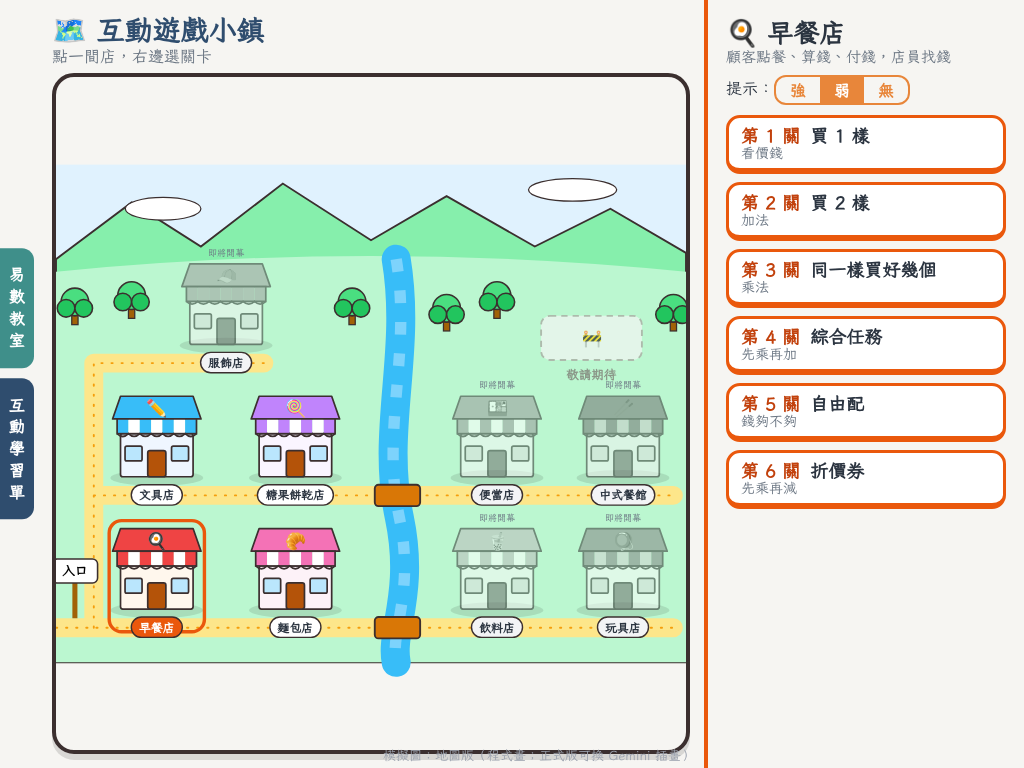
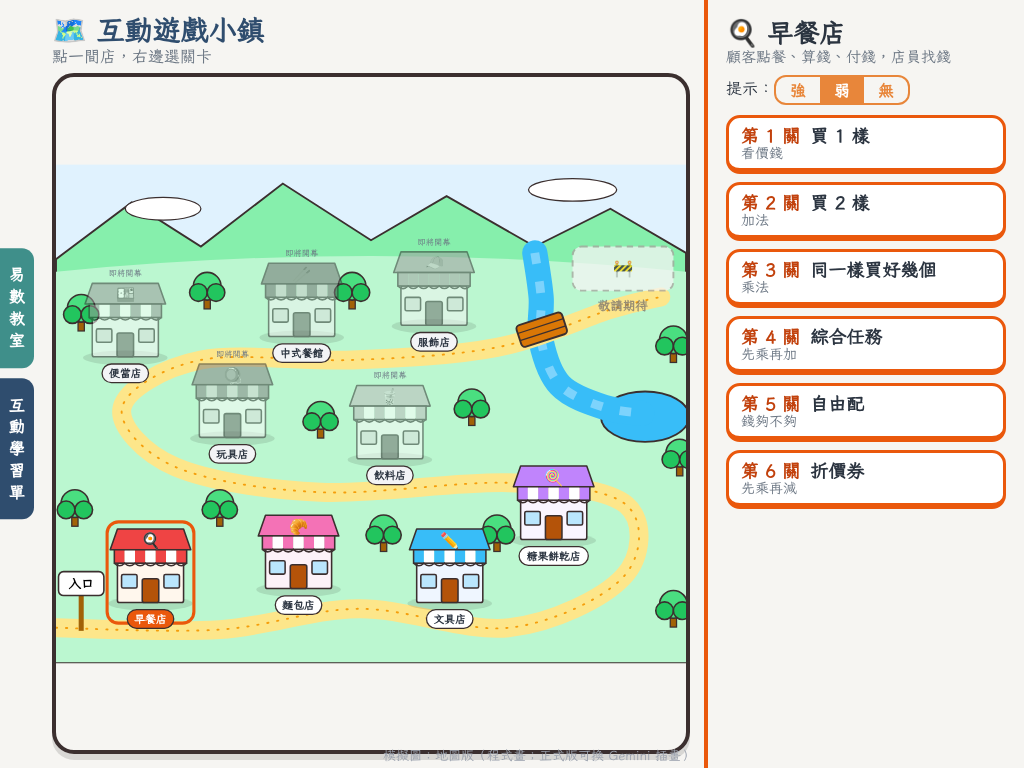
docs: 互動遊戲地圖模擬圖改成彎路、商店自然分佈
Claude-Session: https://claude.ai/code/session_011NSASY6YmqRvJvEdb39JCH

Changed region(s): [[0.0312, 0.3125, 0.6875, 0.9062]]

diff --git a/docs/mock-game-map/mock_map.html b/docs/mock-game-map/mock_map.html
@@ -26,21 +26,19 @@ aside .nm{font-size:26px;font-weight:800}aside .ds{font-size:15px;color:#6b7683;
 <ellipse cx="170" cy="70" rx="60" ry="18" fill="#fff" stroke="#3b2f2f" stroke-width="2"/><ellipse cx="820" cy="40" rx="70" ry="18" fill="#fff" stroke="#3b2f2f" stroke-width="2"/>
 <!-- 草地 -->
 <path d="M0,170 Q500,120 1000,170 L1000,790 L0,790Z" fill="#bbf7d0"/>
-<!-- 小河＋橋 -->
-<path d="M540,150 C565,300 515,420 545,560 C570,680 530,740 540,790" fill="none" stroke="#38bdf8" stroke-width="46" stroke-linecap="round"/>
-<path d="M540,150 C565,300 515,420 545,560 C570,680 530,740 540,790" fill="none" stroke="#7dd3fc" stroke-width="18" stroke-dasharray="20 30"/>
-<!-- 小路：每排店門口一條街，左邊一條直路把三排接起來，入口在左下 -->
-<g fill="none" stroke-linecap="round" stroke-linejoin="round">
-<path id="rd" d="M0,735 L980,735 M60,735 L60,315 L330,315 M60,525 L980,525" stroke="#fde68a" stroke-width="30"/>
-<path d="M0,735 L980,735 M60,735 L60,315 L330,315 M60,525 L980,525" stroke="#f59e0b" stroke-width="3" stroke-dasharray="2 14"/>
-</g>
-<rect x="506" y="718" width="72" height="34" rx="6" fill="#d97706" stroke="#3b2f2f" stroke-width="3"/>
-<rect x="506" y="508" width="72" height="34" rx="6" fill="#d97706" stroke="#3b2f2f" stroke-width="3"/>
+<!-- 小河（從山上流下來，流進右邊的小池塘）＋一座橋 -->
+<ellipse cx="935" cy="400" rx="70" ry="40" fill="#38bdf8" stroke="#3b2f2f" stroke-width="3"/>
+<path d="M760,140 C762,152 768,187 770,210 C772,233 765,257 770,280 C775,303 783,332 800,350 C817,368 848,378 870,385 C892,392 920,393 930,395" fill="none" stroke="#38bdf8" stroke-width="40" stroke-linecap="round"/>
+<path d="M760,140 C762,152 768,187 770,210 C772,233 765,257 770,280 C775,303 783,332 800,350 C817,368 848,378 870,385 C892,392 920,393 930,395" fill="none" stroke="#7dd3fc" stroke-width="14" stroke-dasharray="18 28"/>
+<!-- 彎彎的主街 -->
+<path d="M0,735 C43,736 180,743 260,738 C340,733 403,706 480,705 C557,704 650,743 720,735 C790,727 869,688 900,655 C931,622 935,565 905,540 C875,515 801,508 720,505 C639,502 508,524 420,520 C332,516 242,502 190,480 C138,458 98,413 105,385 C112,357 169,322 230,310 C291,298 392,313 470,310 C548,307 632,303 700,290 C768,277 837,243 880,230 C923,217 947,213 960,210" fill="none" stroke="#fde68a" stroke-width="30" stroke-linecap="round" stroke-linejoin="round"/>
+<path d="M0,735 C43,736 180,743 260,738 C340,733 403,706 480,705 C557,704 650,743 720,735 C790,727 869,688 900,655 C931,622 935,565 905,540 C875,515 801,508 720,505 C639,502 508,524 420,520 C332,516 242,502 190,480 C138,458 98,413 105,385 C112,357 169,322 230,310 C291,298 392,313 470,310 C548,307 632,303 700,290 C768,277 837,243 880,230 C923,217 947,213 960,210" fill="none" stroke="#f59e0b" stroke-width="3" stroke-dasharray="2 14" stroke-linecap="round"/>
+<g transform="translate(771,262) rotate(-18)"><rect x="-38" y="-18" width="76" height="36" rx="6" fill="#d97706" stroke="#3b2f2f" stroke-width="3"/><line x1="-38" y1="-6" x2="38" y2="-6" stroke="#3b2f2f" stroke-width="2"/><line x1="-38" y1="6" x2="38" y2="6" stroke="#3b2f2f" stroke-width="2"/></g>
 <!-- 入口牌 -->
-<g transform="translate(30,660)"><rect x="-4" y="0" width="8" height="60" fill="#a16207"/><rect x="-36" y="-34" width="72" height="38" rx="8" fill="#fff" stroke="#3b2f2f" stroke-width="2.5"/><text x="0" y="-8" text-anchor="middle" font-size="20" font-weight="800">入口</text></g>
-<g transform="translate(30,240) scale(1)"><rect x="-5" y="-6" width="10" height="20" fill="#a16207" stroke="#3b2f2f" stroke-width="2"/><circle cx="0" cy="-22" r="22" fill="#4ade80" stroke="#3b2f2f" stroke-width="2.5"/><circle cx="-14" cy="-12" r="14" fill="#22c55e" stroke="#3b2f2f" stroke-width="2.5"/><circle cx="14" cy="-12" r="14" fill="#22c55e" stroke="#3b2f2f" stroke-width="2.5"/></g><g transform="translate(120,230) scale(1)"><rect x="-5" y="-6" width="10" height="20" fill="#a16207" stroke="#3b2f2f" stroke-width="2"/><circle cx="0" cy="-22" r="22" fill="#4ade80" stroke="#3b2f2f" stroke-width="2.5"/><circle cx="-14" cy="-12" r="14" fill="#22c55e" stroke="#3b2f2f" stroke-width="2.5"/><circle cx="14" cy="-12" r="14" fill="#22c55e" stroke="#3b2f2f" stroke-width="2.5"/></g><g transform="translate(470,240) scale(1)"><rect x="-5" y="-6" width="10" height="20" fill="#a16207" stroke="#3b2f2f" stroke-width="2"/><circle cx="0" cy="-22" r="22" fill="#4ade80" stroke="#3b2f2f" stroke-width="2.5"/><circle cx="-14" cy="-12" r="14" fill="#22c55e" stroke="#3b2f2f" stroke-width="2.5"/><circle cx="14" cy="-12" r="14" fill="#22c55e" stroke="#3b2f2f" stroke-width="2.5"/></g><g transform="translate(620,250) scale(1)"><rect x="-5" y="-6" width="10" height="20" fill="#a16207" stroke="#3b2f2f" stroke-width="2"/><circle cx="0" cy="-22" r="22" fill="#4ade80" stroke="#3b2f2f" stroke-width="2.5"/><circle cx="-14" cy="-12" r="14" fill="#22c55e" stroke="#3b2f2f" stroke-width="2.5"/><circle cx="14" cy="-12" r="14" fill="#22c55e" stroke="#3b2f2f" stroke-width="2.5"/></g><g transform="translate(700,230) scale(1)"><rect x="-5" y="-6" width="10" height="20" fill="#a16207" stroke="#3b2f2f" stroke-width="2"/><circle cx="0" cy="-22" r="22" fill="#4ade80" stroke="#3b2f2f" stroke-width="2.5"/><circle cx="-14" cy="-12" r="14" fill="#22c55e" stroke="#3b2f2f" stroke-width="2.5"/><circle cx="14" cy="-12" r="14" fill="#22c55e" stroke="#3b2f2f" stroke-width="2.5"/></g><g transform="translate(980,250) scale(1)"><rect x="-5" y="-6" width="10" height="20" fill="#a16207" stroke="#3b2f2f" stroke-width="2"/><circle cx="0" cy="-22" r="22" fill="#4ade80" stroke="#3b2f2f" stroke-width="2.5"/><circle cx="-14" cy="-12" r="14" fill="#22c55e" stroke="#3b2f2f" stroke-width="2.5"/><circle cx="14" cy="-12" r="14" fill="#22c55e" stroke="#3b2f2f" stroke-width="2.5"/></g>
-<g transform="translate(850,300)" opacity=".7"><rect x="-80" y="-60" width="160" height="70" rx="14" fill="#f5f5f4" stroke="#a8a29e" stroke-width="3" stroke-dasharray="10 8"/><text y="-16" text-anchor="middle" font-size="26">🚧</text><text y="40" text-anchor="middle" font-size="20" font-weight="800" fill="#78716c">敬請期待</text></g>
-<g transform="translate(270,280) scale(.9)" class="shop">
+<g transform="translate(40,680)"><rect x="-4" y="0" width="8" height="60" fill="#a16207"/><rect x="-36" y="-34" width="72" height="38" rx="8" fill="#fff" stroke="#3b2f2f" stroke-width="2.5"/><text x="0" y="-8" text-anchor="middle" font-size="20" font-weight="800">入口</text></g>
+<g transform="translate(40,250) scale(1)"><rect x="-5" y="-6" width="10" height="20" fill="#a16207" stroke="#3b2f2f" stroke-width="2"/><circle cx="0" cy="-22" r="22" fill="#4ade80" stroke="#3b2f2f" stroke-width="2.5"/><circle cx="-14" cy="-12" r="14" fill="#22c55e" stroke="#3b2f2f" stroke-width="2.5"/><circle cx="14" cy="-12" r="14" fill="#22c55e" stroke="#3b2f2f" stroke-width="2.5"/></g><g transform="translate(240,215) scale(1)"><rect x="-5" y="-6" width="10" height="20" fill="#a16207" stroke="#3b2f2f" stroke-width="2"/><circle cx="0" cy="-22" r="22" fill="#4ade80" stroke="#3b2f2f" stroke-width="2.5"/><circle cx="-14" cy="-12" r="14" fill="#22c55e" stroke="#3b2f2f" stroke-width="2.5"/><circle cx="14" cy="-12" r="14" fill="#22c55e" stroke="#3b2f2f" stroke-width="2.5"/></g><g transform="translate(420,420) scale(1)"><rect x="-5" y="-6" width="10" height="20" fill="#a16207" stroke="#3b2f2f" stroke-width="2"/><circle cx="0" cy="-22" r="22" fill="#4ade80" stroke="#3b2f2f" stroke-width="2.5"/><circle cx="-14" cy="-12" r="14" fill="#22c55e" stroke="#3b2f2f" stroke-width="2.5"/><circle cx="14" cy="-12" r="14" fill="#22c55e" stroke="#3b2f2f" stroke-width="2.5"/></g><g transform="translate(660,400) scale(1)"><rect x="-5" y="-6" width="10" height="20" fill="#a16207" stroke="#3b2f2f" stroke-width="2"/><circle cx="0" cy="-22" r="22" fill="#4ade80" stroke="#3b2f2f" stroke-width="2.5"/><circle cx="-14" cy="-12" r="14" fill="#22c55e" stroke="#3b2f2f" stroke-width="2.5"/><circle cx="14" cy="-12" r="14" fill="#22c55e" stroke="#3b2f2f" stroke-width="2.5"/></g><g transform="translate(980,300) scale(1)"><rect x="-5" y="-6" width="10" height="20" fill="#a16207" stroke="#3b2f2f" stroke-width="2"/><circle cx="0" cy="-22" r="22" fill="#4ade80" stroke="#3b2f2f" stroke-width="2.5"/><circle cx="-14" cy="-12" r="14" fill="#22c55e" stroke="#3b2f2f" stroke-width="2.5"/><circle cx="14" cy="-12" r="14" fill="#22c55e" stroke="#3b2f2f" stroke-width="2.5"/></g><g transform="translate(990,480) scale(1)"><rect x="-5" y="-6" width="10" height="20" fill="#a16207" stroke="#3b2f2f" stroke-width="2"/><circle cx="0" cy="-22" r="22" fill="#4ade80" stroke="#3b2f2f" stroke-width="2.5"/><circle cx="-14" cy="-12" r="14" fill="#22c55e" stroke="#3b2f2f" stroke-width="2.5"/><circle cx="14" cy="-12" r="14" fill="#22c55e" stroke="#3b2f2f" stroke-width="2.5"/></g><g transform="translate(30,560) scale(1)"><rect x="-5" y="-6" width="10" height="20" fill="#a16207" stroke="#3b2f2f" stroke-width="2"/><circle cx="0" cy="-22" r="22" fill="#4ade80" stroke="#3b2f2f" stroke-width="2.5"/><circle cx="-14" cy="-12" r="14" fill="#22c55e" stroke="#3b2f2f" stroke-width="2.5"/><circle cx="14" cy="-12" r="14" fill="#22c55e" stroke="#3b2f2f" stroke-width="2.5"/></g><g transform="translate(260,560) scale(1)"><rect x="-5" y="-6" width="10" height="20" fill="#a16207" stroke="#3b2f2f" stroke-width="2"/><circle cx="0" cy="-22" r="22" fill="#4ade80" stroke="#3b2f2f" stroke-width="2.5"/><circle cx="-14" cy="-12" r="14" fill="#22c55e" stroke="#3b2f2f" stroke-width="2.5"/><circle cx="14" cy="-12" r="14" fill="#22c55e" stroke="#3b2f2f" stroke-width="2.5"/></g><g transform="translate(520,600) scale(1)"><rect x="-5" y="-6" width="10" height="20" fill="#a16207" stroke="#3b2f2f" stroke-width="2"/><circle cx="0" cy="-22" r="22" fill="#4ade80" stroke="#3b2f2f" stroke-width="2.5"/><circle cx="-14" cy="-12" r="14" fill="#22c55e" stroke="#3b2f2f" stroke-width="2.5"/><circle cx="14" cy="-12" r="14" fill="#22c55e" stroke="#3b2f2f" stroke-width="2.5"/></g><g transform="translate(980,720) scale(1)"><rect x="-5" y="-6" width="10" height="20" fill="#a16207" stroke="#3b2f2f" stroke-width="2"/><circle cx="0" cy="-22" r="22" fill="#4ade80" stroke="#3b2f2f" stroke-width="2.5"/><circle cx="-14" cy="-12" r="14" fill="#22c55e" stroke="#3b2f2f" stroke-width="2.5"/><circle cx="14" cy="-12" r="14" fill="#22c55e" stroke="#3b2f2f" stroke-width="2.5"/></g><g transform="translate(700,600) scale(1)"><rect x="-5" y="-6" width="10" height="20" fill="#a16207" stroke="#3b2f2f" stroke-width="2"/><circle cx="0" cy="-22" r="22" fill="#4ade80" stroke="#3b2f2f" stroke-width="2.5"/><circle cx="-14" cy="-12" r="14" fill="#22c55e" stroke="#3b2f2f" stroke-width="2.5"/><circle cx="14" cy="-12" r="14" fill="#22c55e" stroke="#3b2f2f" stroke-width="2.5"/></g><g transform="translate(470,215) scale(1)"><rect x="-5" y="-6" width="10" height="20" fill="#a16207" stroke="#3b2f2f" stroke-width="2"/><circle cx="0" cy="-22" r="22" fill="#4ade80" stroke="#3b2f2f" stroke-width="2.5"/><circle cx="-14" cy="-12" r="14" fill="#22c55e" stroke="#3b2f2f" stroke-width="2.5"/><circle cx="14" cy="-12" r="14" fill="#22c55e" stroke="#3b2f2f" stroke-width="2.5"/></g>
+<g transform="translate(900,190)" opacity=".75"><rect x="-80" y="-60" width="160" height="70" rx="14" fill="#f5f5f4" stroke="#a8a29e" stroke-width="3" stroke-dasharray="10 8"/><text y="-16" text-anchor="middle" font-size="26">🚧</text><text y="40" text-anchor="middle" font-size="20" font-weight="800" fill="#78716c">敬請期待</text></g>
+<g transform="translate(600,250) scale(.82)" class="shop">
   <ellipse cx="0" cy="8" rx="82" ry="14" fill="#000" opacity=".10"/>
   
   <g filter="url(#gray)" opacity=".55">
@@ -57,58 +55,7 @@ aside .nm{font-size:26px;font-weight:800}aside .ds{font-size:15px;color:#6b7683;
   <rect x="-45" y="20" width="90" height="36" rx="18" fill="#f3f4f6" stroke="#3b2f2f" stroke-width="2.5"/>
   <text x="0" y="46" text-anchor="middle" font-size="21" font-weight="800" fill="#2b3440">服飾店</text>
   <text x="0" y="-150" text-anchor="middle" font-size="16" fill="#6b7683">即將開幕</text>
-</g><g transform="translate(160,490) scale(.9)" class="shop">
-  <ellipse cx="0" cy="8" rx="82" ry="14" fill="#000" opacity=".10"/>
-  
-  <g>
-    <polygon points="-78,-96 78,-96 64,-136 -64,-136" fill="#38bdf8" stroke="#3b2f2f" stroke-width="3" stroke-linejoin="round"/>
-    <rect x="-64" y="-70" width="128" height="76" rx="4" fill="#eff6ff" stroke="#3b2f2f" stroke-width="3"/>
-    <g clip-path="url(#aw)"><rect x="-70" y="-96" width="20" height="26" fill="#38bdf8"/><rect x="-50" y="-96" width="20" height="26" fill="#fff"/><rect x="-30" y="-96" width="20" height="26" fill="#38bdf8"/><rect x="-10" y="-96" width="20" height="26" fill="#fff"/><rect x="10" y="-96" width="20" height="26" fill="#38bdf8"/><rect x="30" y="-96" width="20" height="26" fill="#fff"/><rect x="50" y="-96" width="20" height="26" fill="#38bdf8"/></g>
-    <path d="M-70,-70 q10,10 20,0 q10,10 20,0 q10,10 20,0 q10,10 20,0 q10,10 20,0 q10,10 20,0 q10,10 20,0" fill="none" stroke="#3b2f2f" stroke-width="3"/>
-    <rect x="-70" y="-96" width="140" height="26" fill="none" stroke="#3b2f2f" stroke-width="3"/>
-    <rect x="-16" y="-40" width="32" height="46" rx="4" fill="#b45309" stroke="#3b2f2f" stroke-width="3"/>
-    <rect x="-56" y="-48" width="30" height="26" rx="3" fill="#bae6fd" stroke="#3b2f2f" stroke-width="3"/>
-    <rect x="26" y="-48" width="30" height="26" rx="3" fill="#bae6fd" stroke="#3b2f2f" stroke-width="3"/>
-    <text x="0" y="-104" text-anchor="middle" font-size="30">✏</text>
-  </g>
-  <rect x="-45" y="20" width="90" height="36" rx="18" fill="#fff" stroke="#3b2f2f" stroke-width="2.5"/>
-  <text x="0" y="46" text-anchor="middle" font-size="21" font-weight="800" fill="#2b3440">文具店</text>
-  
-</g><g transform="translate(380,490) scale(.9)" class="shop">
-  <ellipse cx="0" cy="8" rx="82" ry="14" fill="#000" opacity=".10"/>
-  
-  <g>
-    <polygon points="-78,-96 78,-96 64,-136 -64,-136" fill="#c084fc" stroke="#3b2f2f" stroke-width="3" stroke-linejoin="round"/>
-    <rect x="-64" y="-70" width="128" height="76" rx="4" fill="#faf5ff" stroke="#3b2f2f" stroke-width="3"/>
-    <g clip-path="url(#aw)"><rect x="-70" y="-96" width="20" height="26" fill="#c084fc"/><rect x="-50" y="-96" width="20" height="26" fill="#fff"/><rect x="-30" y="-96" width="20" height="26" fill="#c084fc"/><rect x="-10" y="-96" width="20" height="26" fill="#fff"/><rect x="10" y="-96" width="20" height="26" fill="#c084fc"/><rect x="30" y="-96" width="20" height="26" fill="#fff"/><rect x="50" y="-96" width="20" height="26" fill="#c084fc"/></g>
-    <path d="M-70,-70 q10,10 20,0 q10,10 20,0 q10,10 20,0 q10,10 20,0 q10,10 20,0 q10,10 20,0 q10,10 20,0" fill="none" stroke="#3b2f2f" stroke-width="3"/>
-    <rect x="-70" y="-96" width="140" height="26" fill="none" stroke="#3b2f2f" stroke-width="3"/>
-    <rect x="-16" y="-40" width="32" height="46" rx="4" fill="#b45309" stroke="#3b2f2f" stroke-width="3"/>
-    <rect x="-56" y="-48" width="30" height="26" rx="3" fill="#bae6fd" stroke="#3b2f2f" stroke-width="3"/>
-    <rect x="26" y="-48" width="30" height="26" rx="3" fill="#bae6fd" stroke="#3b2f2f" stroke-width="3"/>
-    <text x="0" y="-104" text-anchor="middle" font-size="30">🍭</text>
-  </g>
-  <rect x="-67" y="20" width="134" height="36" rx="18" fill="#fff" stroke="#3b2f2f" stroke-width="2.5"/>
-  <text x="0" y="46" text-anchor="middle" font-size="21" font-weight="800" fill="#2b3440">糖果餅乾店</text>
-  
-</g><g transform="translate(700,490) scale(.9)" class="shop">
-  <ellipse cx="0" cy="8" rx="82" ry="14" fill="#000" opacity=".10"/>
-  
-  <g filter="url(#gray)" opacity=".55">
-    <polygon points="-78,-96 78,-96 64,-136 -64,-136" fill="#f97316" stroke="#3b2f2f" stroke-width="3" stroke-linejoin="round"/>
-    <rect x="-64" y="-70" width="128" height="76" rx="4" fill="#fff7ed" stroke="#3b2f2f" stroke-width="3"/>
-    <g clip-path="url(#aw)"><rect x="-70" y="-96" width="20" height="26" fill="#f97316"/><rect x="-50" y="-96" width="20" height="26" fill="#fff"/><rect x="-30" y="-96" width="20" height="26" fill="#f97316"/><rect x="-10" y="-96" width="20" height="26" fill="#fff"/><rect x="10" y="-96" width="20" height="26" fill="#f97316"/><rect x="30" y="-96" width="20" height="26" fill="#fff"/><rect x="50" y="-96" width="20" height="26" fill="#f97316"/></g>
-    <path d="M-70,-70 q10,10 20,0 q10,10 20,0 q10,10 20,0 q10,10 20,0 q10,10 20,0 q10,10 20,0 q10,10 20,0" fill="none" stroke="#3b2f2f" stroke-width="3"/>
-    <rect x="-70" y="-96" width="140" height="26" fill="none" stroke="#3b2f2f" stroke-width="3"/>
-    <rect x="-16" y="-40" width="32" height="46" rx="4" fill="#b45309" stroke="#3b2f2f" stroke-width="3"/>
-    <rect x="-56" y="-48" width="30" height="26" rx="3" fill="#bae6fd" stroke="#3b2f2f" stroke-width="3"/>
-    <rect x="26" y="-48" width="30" height="26" rx="3" fill="#bae6fd" stroke="#3b2f2f" stroke-width="3"/>
-    <text x="0" y="-104" text-anchor="middle" font-size="30">🍱</text>
-  </g>
-  <rect x="-45" y="20" width="90" height="36" rx="18" fill="#f3f4f6" stroke="#3b2f2f" stroke-width="2.5"/>
-  <text x="0" y="46" text-anchor="middle" font-size="21" font-weight="800" fill="#2b3440">便當店</text>
-  <text x="0" y="-150" text-anchor="middle" font-size="16" fill="#6b7683">即將開幕</text>
-</g><g transform="translate(900,490) scale(.9)" class="shop">
+</g><g transform="translate(390,268) scale(.82)" class="shop">
   <ellipse cx="0" cy="8" rx="82" ry="14" fill="#000" opacity=".10"/>
   
   <g filter="url(#gray)" opacity=".55">
@@ -125,58 +72,24 @@ aside .nm{font-size:26px;font-weight:800}aside .ds{font-size:15px;color:#6b7683;
   <rect x="-56" y="20" width="112" height="36" rx="18" fill="#f3f4f6" stroke="#3b2f2f" stroke-width="2.5"/>
   <text x="0" y="46" text-anchor="middle" font-size="21" font-weight="800" fill="#2b3440">中式餐館</text>
   <text x="0" y="-150" text-anchor="middle" font-size="16" fill="#6b7683">即將開幕</text>
-</g><g transform="translate(160,700) scale(.9)" class="shop">
-  <ellipse cx="0" cy="8" rx="82" ry="14" fill="#000" opacity=".10"/>
-  <rect x="-84" y="-150" width="168" height="196" rx="22" fill="none" stroke="#ea580c" stroke-width="6" stroke-dasharray="0"/>
-  <g>
-    <polygon points="-78,-96 78,-96 64,-136 -64,-136" fill="#ef4444" stroke="#3b2f2f" stroke-width="3" stroke-linejoin="round"/>
-    <rect x="-64" y="-70" width="128" height="76" rx="4" fill="#fff7ed" stroke="#3b2f2f" stroke-width="3"/>
-    <g clip-path="url(#aw)"><rect x="-70" y="-96" width="20" height="26" fill="#ef4444"/><rect x="-50" y="-96" width="20" height="26" fill="#fff"/><rect x="-30" y="-96" width="20" height="26" fill="#ef4444"/><rect x="-10" y="-96" width="20" height="26" fill="#fff"/><rect x="10" y="-96" width="20" height="26" fill="#ef4444"/><rect x="30" y="-96" width="20" height="26" fill="#fff"/><rect x="50" y="-96" width="20" height="26" fill="#ef4444"/></g>
-    <path d="M-70,-70 q10,10 20,0 q10,10 20,0 q10,10 20,0 q10,10 20,0 q10,10 20,0 q10,10 20,0 q10,10 20,0" fill="none" stroke="#3b2f2f" stroke-width="3"/>
-    <rect x="-70" y="-96" width="140" height="26" fill="none" stroke="#3b2f2f" stroke-width="3"/>
-    <rect x="-16" y="-40" width="32" height="46" rx="4" fill="#b45309" stroke="#3b2f2f" stroke-width="3"/>
-    <rect x="-56" y="-48" width="30" height="26" rx="3" fill="#bae6fd" stroke="#3b2f2f" stroke-width="3"/>
-    <rect x="26" y="-48" width="30" height="26" rx="3" fill="#bae6fd" stroke="#3b2f2f" stroke-width="3"/>
-    <text x="0" y="-104" text-anchor="middle" font-size="30">🍳</text>
-  </g>
-  <rect x="-45" y="20" width="90" height="36" rx="18" fill="#ea580c" stroke="#3b2f2f" stroke-width="2.5"/>
-  <text x="0" y="46" text-anchor="middle" font-size="21" font-weight="800" fill="#fff">早餐店</text>
-  
-</g><g transform="translate(380,700) scale(.9)" class="shop">
-  <ellipse cx="0" cy="8" rx="82" ry="14" fill="#000" opacity=".10"/>
-  
-  <g>
-    <polygon points="-78,-96 78,-96 64,-136 -64,-136" fill="#f472b6" stroke="#3b2f2f" stroke-width="3" stroke-linejoin="round"/>
-    <rect x="-64" y="-70" width="128" height="76" rx="4" fill="#fdf2f8" stroke="#3b2f2f" stroke-width="3"/>
-    <g clip-path="url(#aw)"><rect x="-70" y="-96" width="20" height="26" fill="#f472b6"/><rect x="-50" y="-96" width="20" height="26" fill="#fff"/><rect x="-30" y="-96" width="20" height="26" fill="#f472b6"/><rect x="-10" y="-96" width="20" height="26" fill="#fff"/><rect x="10" y="-96" width="20" height="26" fill="#f472b6"/><rect x="30" y="-96" width="20" height="26" fill="#fff"/><rect x="50" y="-96" width="20" height="26" fill="#f472b6"/></g>
-    <path d="M-70,-70 q10,10 20,0 q10,10 20,0 q10,10 20,0 q10,10 20,0 q10,10 20,0 q10,10 20,0 q10,10 20,0" fill="none" stroke="#3b2f2f" stroke-width="3"/>
-    <rect x="-70" y="-96" width="140" height="26" fill="none" stroke="#3b2f2f" stroke-width="3"/>
-    <rect x="-16" y="-40" width="32" height="46" rx="4" fill="#b45309" stroke="#3b2f2f" stroke-width="3"/>
-    <rect x="-56" y="-48" width="30" height="26" rx="3" fill="#bae6fd" stroke="#3b2f2f" stroke-width="3"/>
-    <rect x="26" y="-48" width="30" height="26" rx="3" fill="#bae6fd" stroke="#3b2f2f" stroke-width="3"/>
-    <text x="0" y="-104" text-anchor="middle" font-size="30">🥐</text>
-  </g>
-  <rect x="-45" y="20" width="90" height="36" rx="18" fill="#fff" stroke="#3b2f2f" stroke-width="2.5"/>
-  <text x="0" y="46" text-anchor="middle" font-size="21" font-weight="800" fill="#2b3440">麵包店</text>
-  
-</g><g transform="translate(700,700) scale(.9)" class="shop">
+</g><g transform="translate(110,300) scale(.82)" class="shop">
   <ellipse cx="0" cy="8" rx="82" ry="14" fill="#000" opacity=".10"/>
   
   <g filter="url(#gray)" opacity=".55">
-    <polygon points="-78,-96 78,-96 64,-136 -64,-136" fill="#34d399" stroke="#3b2f2f" stroke-width="3" stroke-linejoin="round"/>
-    <rect x="-64" y="-70" width="128" height="76" rx="4" fill="#ecfdf5" stroke="#3b2f2f" stroke-width="3"/>
-    <g clip-path="url(#aw)"><rect x="-70" y="-96" width="20" height="26" fill="#34d399"/><rect x="-50" y="-96" width="20" height="26" fill="#fff"/><rect x="-30" y="-96" width="20" height="26" fill="#34d399"/><rect x="-10" y="-96" width="20" height="26" fill="#fff"/><rect x="10" y="-96" width="20" height="26" fill="#34d399"/><rect x="30" y="-96" width="20" height="26" fill="#fff"/><rect x="50" y="-96" width="20" height="26" fill="#34d399"/></g>
+    <polygon points="-78,-96 78,-96 64,-136 -64,-136" fill="#f97316" stroke="#3b2f2f" stroke-width="3" stroke-linejoin="round"/>
+    <rect x="-64" y="-70" width="128" height="76" rx="4" fill="#fff7ed" stroke="#3b2f2f" stroke-width="3"/>
+    <g clip-path="url(#aw)"><rect x="-70" y="-96" width="20" height="26" fill="#f97316"/><rect x="-50" y="-96" width="20" height="26" fill="#fff"/><rect x="-30" y="-96" width="20" height="26" fill="#f97316"/><rect x="-10" y="-96" width="20" height="26" fill="#fff"/><rect x="10" y="-96" width="20" height="26" fill="#f97316"/><rect x="30" y="-96" width="20" height="26" fill="#fff"/><rect x="50" y="-96" width="20" height="26" fill="#f97316"/></g>
     <path d="M-70,-70 q10,10 20,0 q10,10 20,0 q10,10 20,0 q10,10 20,0 q10,10 20,0 q10,10 20,0 q10,10 20,0" fill="none" stroke="#3b2f2f" stroke-width="3"/>
     <rect x="-70" y="-96" width="140" height="26" fill="none" stroke="#3b2f2f" stroke-width="3"/>
     <rect x="-16" y="-40" width="32" height="46" rx="4" fill="#b45309" stroke="#3b2f2f" stroke-width="3"/>
     <rect x="-56" y="-48" width="30" height="26" rx="3" fill="#bae6fd" stroke="#3b2f2f" stroke-width="3"/>
     <rect x="26" y="-48" width="30" height="26" rx="3" fill="#bae6fd" stroke="#3b2f2f" stroke-width="3"/>
-    <text x="0" y="-104" text-anchor="middle" font-size="30">🧋</text>
+    <text x="0" y="-104" text-anchor="middle" font-size="30">🍱</text>
   </g>
   <rect x="-45" y="20" width="90" height="36" rx="18" fill="#f3f4f6" stroke="#3b2f2f" stroke-width="2.5"/>
-  <text x="0" y="46" text-anchor="middle" font-size="21" font-weight="800" fill="#2b3440">飲料店</text>
+  <text x="0" y="46" text-anchor="middle" font-size="21" font-weight="800" fill="#2b3440">便當店</text>
   <text x="0" y="-150" text-anchor="middle" font-size="16" fill="#6b7683">即將開幕</text>
-</g><g transform="translate(900,700) scale(.9)" class="shop">
+</g><g transform="translate(280,428) scale(.82)" class="shop">
   <ellipse cx="0" cy="8" rx="82" ry="14" fill="#000" opacity=".10"/>
   
   <g filter="url(#gray)" opacity=".55">
@@ -193,6 +106,91 @@ aside .nm{font-size:26px;font-weight:800}aside .ds{font-size:15px;color:#6b7683;
   <rect x="-45" y="20" width="90" height="36" rx="18" fill="#f3f4f6" stroke="#3b2f2f" stroke-width="2.5"/>
   <text x="0" y="46" text-anchor="middle" font-size="21" font-weight="800" fill="#2b3440">玩具店</text>
   <text x="0" y="-150" text-anchor="middle" font-size="16" fill="#6b7683">即將開幕</text>
+</g><g transform="translate(530,462) scale(.82)" class="shop">
+  <ellipse cx="0" cy="8" rx="82" ry="14" fill="#000" opacity=".10"/>
+  
+  <g filter="url(#gray)" opacity=".55">
+    <polygon points="-78,-96 78,-96 64,-136 -64,-136" fill="#34d399" stroke="#3b2f2f" stroke-width="3" stroke-linejoin="round"/>
+    <rect x="-64" y="-70" width="128" height="76" rx="4" fill="#ecfdf5" stroke="#3b2f2f" stroke-width="3"/>
+    <g clip-path="url(#aw)"><rect x="-70" y="-96" width="20" height="26" fill="#34d399"/><rect x="-50" y="-96" width="20" height="26" fill="#fff"/><rect x="-30" y="-96" width="20" height="26" fill="#34d399"/><rect x="-10" y="-96" width="20" height="26" fill="#fff"/><rect x="10" y="-96" width="20" height="26" fill="#34d399"/><rect x="30" y="-96" width="20" height="26" fill="#fff"/><rect x="50" y="-96" width="20" height="26" fill="#34d399"/></g>
+    <path d="M-70,-70 q10,10 20,0 q10,10 20,0 q10,10 20,0 q10,10 20,0 q10,10 20,0 q10,10 20,0 q10,10 20,0" fill="none" stroke="#3b2f2f" stroke-width="3"/>
+    <rect x="-70" y="-96" width="140" height="26" fill="none" stroke="#3b2f2f" stroke-width="3"/>
+    <rect x="-16" y="-40" width="32" height="46" rx="4" fill="#b45309" stroke="#3b2f2f" stroke-width="3"/>
+    <rect x="-56" y="-48" width="30" height="26" rx="3" fill="#bae6fd" stroke="#3b2f2f" stroke-width="3"/>
+    <rect x="26" y="-48" width="30" height="26" rx="3" fill="#bae6fd" stroke="#3b2f2f" stroke-width="3"/>
+    <text x="0" y="-104" text-anchor="middle" font-size="30">🧋</text>
+  </g>
+  <rect x="-45" y="20" width="90" height="36" rx="18" fill="#f3f4f6" stroke="#3b2f2f" stroke-width="2.5"/>
+  <text x="0" y="46" text-anchor="middle" font-size="21" font-weight="800" fill="#2b3440">飲料店</text>
+  <text x="0" y="-150" text-anchor="middle" font-size="16" fill="#6b7683">即將開幕</text>
+</g><g transform="translate(790,590) scale(.82)" class="shop">
+  <ellipse cx="0" cy="8" rx="82" ry="14" fill="#000" opacity=".10"/>
+  
+  <g>
+    <polygon points="-78,-96 78,-96 64,-136 -64,-136" fill="#c084fc" stroke="#3b2f2f" stroke-width="3" stroke-linejoin="round"/>
+    <rect x="-64" y="-70" width="128" height="76" rx="4" fill="#faf5ff" stroke="#3b2f2f" stroke-width="3"/>
+    <g clip-path="url(#aw)"><rect x="-70" y="-96" width="20" height="26" fill="#c084fc"/><rect x="-50" y="-96" width="20" height="26" fill="#fff"/><rect x="-30" y="-96" width="20" height="26" fill="#c084fc"/><rect x="-10" y="-96" width="20" height="26" fill="#fff"/><rect x="10" y="-96" width="20" height="26" fill="#c084fc"/><rect x="30" y="-96" width="20" height="26" fill="#fff"/><rect x="50" y="-96" width="20" height="26" fill="#c084fc"/></g>
+    <path d="M-70,-70 q10,10 20,0 q10,10 20,0 q10,10 20,0 q10,10 20,0 q10,10 20,0 q10,10 20,0 q10,10 20,0" fill="none" stroke="#3b2f2f" stroke-width="3"/>
+    <rect x="-70" y="-96" width="140" height="26" fill="none" stroke="#3b2f2f" stroke-width="3"/>
+    <rect x="-16" y="-40" width="32" height="46" rx="4" fill="#b45309" stroke="#3b2f2f" stroke-width="3"/>
+    <rect x="-56" y="-48" width="30" height="26" rx="3" fill="#bae6fd" stroke="#3b2f2f" stroke-width="3"/>
+    <rect x="26" y="-48" width="30" height="26" rx="3" fill="#bae6fd" stroke="#3b2f2f" stroke-width="3"/>
+    <text x="0" y="-104" text-anchor="middle" font-size="30">🍭</text>
+  </g>
+  <rect x="-67" y="20" width="134" height="36" rx="18" fill="#fff" stroke="#3b2f2f" stroke-width="2.5"/>
+  <text x="0" y="46" text-anchor="middle" font-size="21" font-weight="800" fill="#2b3440">糖果餅乾店</text>
+  
+</g><g transform="translate(385,668) scale(.82)" class="shop">
+  <ellipse cx="0" cy="8" rx="82" ry="14" fill="#000" opacity=".10"/>
+  
+  <g>
+    <polygon points="-78,-96 78,-96 64,-136 -64,-136" fill="#f472b6" stroke="#3b2f2f" stroke-width="3" stroke-linejoin="round"/>
+    <rect x="-64" y="-70" width="128" height="76" rx="4" fill="#fdf2f8" stroke="#3b2f2f" stroke-width="3"/>
+    <g clip-path="url(#aw)"><rect x="-70" y="-96" width="20" height="26" fill="#f472b6"/><rect x="-50" y="-96" width="20" height="26" fill="#fff"/><rect x="-30" y="-96" width="20" height="26" fill="#f472b6"/><rect x="-10" y="-96" width="20" height="26" fill="#fff"/><rect x="10" y="-96" width="20" height="26" fill="#f472b6"/><rect x="30" y="-96" width="20" height="26" fill="#fff"/><rect x="50" y="-96" width="20" height="26" fill="#f472b6"/></g>
+    <path d="M-70,-70 q10,10 20,0 q10,10 20,0 q10,10 20,0 q10,10 20,0 q10,10 20,0 q10,10 20,0 q10,10 20,0" fill="none" stroke="#3b2f2f" stroke-width="3"/>
+    <rect x="-70" y="-96" width="140" height="26" fill="none" stroke="#3b2f2f" stroke-width="3"/>
+    <rect x="-16" y="-40" width="32" height="46" rx="4" fill="#b45309" stroke="#3b2f2f" stroke-width="3"/>
+    <rect x="-56" y="-48" width="30" height="26" rx="3" fill="#bae6fd" stroke="#3b2f2f" stroke-width="3"/>
+    <rect x="26" y="-48" width="30" height="26" rx="3" fill="#bae6fd" stroke="#3b2f2f" stroke-width="3"/>
+    <text x="0" y="-104" text-anchor="middle" font-size="30">🥐</text>
+  </g>
+  <rect x="-45" y="20" width="90" height="36" rx="18" fill="#fff" stroke="#3b2f2f" stroke-width="2.5"/>
+  <text x="0" y="46" text-anchor="middle" font-size="21" font-weight="800" fill="#2b3440">麵包店</text>
+  
+</g><g transform="translate(150,690) scale(.82)" class="shop">
+  <ellipse cx="0" cy="8" rx="82" ry="14" fill="#000" opacity=".10"/>
+  <rect x="-84" y="-150" width="168" height="196" rx="22" fill="none" stroke="#ea580c" stroke-width="6" stroke-dasharray="0"/>
+  <g>
+    <polygon points="-78,-96 78,-96 64,-136 -64,-136" fill="#ef4444" stroke="#3b2f2f" stroke-width="3" stroke-linejoin="round"/>
+    <rect x="-64" y="-70" width="128" height="76" rx="4" fill="#fff7ed" stroke="#3b2f2f" stroke-width="3"/>
+    <g clip-path="url(#aw)"><rect x="-70" y="-96" width="20" height="26" fill="#ef4444"/><rect x="-50" y="-96" width="20" height="26" fill="#fff"/><rect x="-30" y="-96" width="20" height="26" fill="#ef4444"/><rect x="-10" y="-96" width="20" height="26" fill="#fff"/><rect x="10" y="-96" width="20" height="26" fill="#ef4444"/><rect x="30" y="-96" width="20" height="26" fill="#fff"/><rect x="50" y="-96" width="20" height="26" fill="#ef4444"/></g>
+    <path d="M-70,-70 q10,10 20,0 q10,10 20,0 q10,10 20,0 q10,10 20,0 q10,10 20,0 q10,10 20,0 q10,10 20,0" fill="none" stroke="#3b2f2f" stroke-width="3"/>
+    <rect x="-70" y="-96" width="140" height="26" fill="none" stroke="#3b2f2f" stroke-width="3"/>
+    <rect x="-16" y="-40" width="32" height="46" rx="4" fill="#b45309" stroke="#3b2f2f" stroke-width="3"/>
+    <rect x="-56" y="-48" width="30" height="26" rx="3" fill="#bae6fd" stroke="#3b2f2f" stroke-width="3"/>
+    <rect x="26" y="-48" width="30" height="26" rx="3" fill="#bae6fd" stroke="#3b2f2f" stroke-width="3"/>
+    <text x="0" y="-104" text-anchor="middle" font-size="30">🍳</text>
+  </g>
+  <rect x="-45" y="20" width="90" height="36" rx="18" fill="#ea580c" stroke="#3b2f2f" stroke-width="2.5"/>
+  <text x="0" y="46" text-anchor="middle" font-size="21" font-weight="800" fill="#fff">早餐店</text>
+  
+</g><g transform="translate(625,690) scale(.82)" class="shop">
+  <ellipse cx="0" cy="8" rx="82" ry="14" fill="#000" opacity=".10"/>
+  
+  <g>
+    <polygon points="-78,-96 78,-96 64,-136 -64,-136" fill="#38bdf8" stroke="#3b2f2f" stroke-width="3" stroke-linejoin="round"/>
+    <rect x="-64" y="-70" width="128" height="76" rx="4" fill="#eff6ff" stroke="#3b2f2f" stroke-width="3"/>
+    <g clip-path="url(#aw)"><rect x="-70" y="-96" width="20" height="26" fill="#38bdf8"/><rect x="-50" y="-96" width="20" height="26" fill="#fff"/><rect x="-30" y="-96" width="20" height="26" fill="#38bdf8"/><rect x="-10" y="-96" width="20" height="26" fill="#fff"/><rect x="10" y="-96" width="20" height="26" fill="#38bdf8"/><rect x="30" y="-96" width="20" height="26" fill="#fff"/><rect x="50" y="-96" width="20" height="26" fill="#38bdf8"/></g>
+    <path d="M-70,-70 q10,10 20,0 q10,10 20,0 q10,10 20,0 q10,10 20,0 q10,10 20,0 q10,10 20,0 q10,10 20,0" fill="none" stroke="#3b2f2f" stroke-width="3"/>
+    <rect x="-70" y="-96" width="140" height="26" fill="none" stroke="#3b2f2f" stroke-width="3"/>
+    <rect x="-16" y="-40" width="32" height="46" rx="4" fill="#b45309" stroke="#3b2f2f" stroke-width="3"/>
+    <rect x="-56" y="-48" width="30" height="26" rx="3" fill="#bae6fd" stroke="#3b2f2f" stroke-width="3"/>
+    <rect x="26" y="-48" width="30" height="26" rx="3" fill="#bae6fd" stroke="#3b2f2f" stroke-width="3"/>
+    <text x="0" y="-104" text-anchor="middle" font-size="30">✏</text>
+  </g>
+  <rect x="-45" y="20" width="90" height="36" rx="18" fill="#fff" stroke="#3b2f2f" stroke-width="2.5"/>
+  <text x="0" y="46" text-anchor="middle" font-size="21" font-weight="800" fill="#2b3440">文具店</text>
+  
 </g>
 </svg></div></main>
 <aside><div class="nm">🍳 早餐店</div><div class="ds">顧客點餐、算錢、付錢，店員找錢</div>

diff --git a/docs/mock-game-map/make.py b/docs/mock-game-map/make.py
@@ -7,15 +7,15 @@ FONT = (HERE / '../../fonts/Iansui-Regular.ttf').resolve()
 
 # (店名, emoji, 雨棚色1, 雨棚色2, 牆色, x, y, 已開幕)；座標＝地圖 1000×720 上的店門口
 SHOPS = [
-    ('早餐店', '🍳', '#ef4444', '#fff', '#fff7ed', 160, 700, True),
-    ('麵包店', '🥐', '#f472b6', '#fff', '#fdf2f8', 380, 700, True),
-    ('文具店', '✏', '#38bdf8', '#fff', '#eff6ff', 160, 490, True),
-    ('糖果餅乾店', '🍭', '#c084fc', '#fff', '#faf5ff', 380, 490, True),
-    ('飲料店', '🧋', '#34d399', '#fff', '#ecfdf5', 700, 700, False),
-    ('玩具店', '🪀', '#ef4444', '#facc15', '#fefce8', 900, 700, False),
-    ('便當店', '🍱', '#f97316', '#fff', '#fff7ed', 700, 490, False),
-    ('中式餐館', '🥢', '#dc2626', '#fbbf24', '#fef3c7', 900, 490, False),
-    ('服飾店', '🧢', '#fb7185', '#9ca3af', '#fff1f2', 270, 280, False),
+    ('早餐店', '🍳', '#ef4444', '#fff', '#fff7ed', 150, 690, True),
+    ('麵包店', '🥐', '#f472b6', '#fff', '#fdf2f8', 385, 668, True),
+    ('文具店', '✏', '#38bdf8', '#fff', '#eff6ff', 625, 690, True),
+    ('糖果餅乾店', '🍭', '#c084fc', '#fff', '#faf5ff', 790, 590, True),
+    ('飲料店', '🧋', '#34d399', '#fff', '#ecfdf5', 530, 462, False),
+    ('玩具店', '🪀', '#ef4444', '#facc15', '#fefce8', 280, 428, False),
+    ('便當店', '🍱', '#f97316', '#fff', '#fff7ed', 110, 300, False),
+    ('中式餐館', '🥢', '#dc2626', '#fbbf24', '#fef3c7', 390, 268, False),
+    ('服飾店', '🧢', '#fb7185', '#9ca3af', '#fff1f2', 600, 250, False),
 ]
 SEL = '早餐店'
 
@@ -28,7 +28,7 @@ def shop_svg(n, emo, c1, c2, wall, x, y, live):
     label_bg = '#ea580c' if on else ('#fff' if live else '#f3f4f6')
     label_fg = '#fff' if on else '#2b3440'
     soon = '' if live else '<text x="0" y="-150" text-anchor="middle" font-size="16" fill="#6b7683">即將開幕</text>'
-    return f'''<g transform="translate({x},{y}) scale(.9)" class="shop">
+    return f'''<g transform="translate({x},{y}) scale(.82)" class="shop">
   <ellipse cx="0" cy="8" rx="82" ry="14" fill="#000" opacity=".10"/>
   {ring}
   <g{g}>
@@ -50,7 +50,20 @@ def shop_svg(n, emo, c1, c2, wall, x, y, live):
 def tree(x, y, s=1):
     return f'<g transform="translate({x},{y}) scale({s})"><rect x="-5" y="-6" width="10" height="20" fill="#a16207" stroke="#3b2f2f" stroke-width="2"/><circle cx="0" cy="-22" r="22" fill="#4ade80" stroke="#3b2f2f" stroke-width="2.5"/><circle cx="-14" cy="-12" r="14" fill="#22c55e" stroke="#3b2f2f" stroke-width="2.5"/><circle cx="14" cy="-12" r="14" fill="#22c55e" stroke="#3b2f2f" stroke-width="2.5"/></g>'
 
-TREES = [(30,240),(120,230),(470,240),(620,250),(700,230),(980,250)]
+
+def smooth(pts):
+    d=f"M{pts[0][0]},{pts[0][1]}"
+    for i in range(len(pts)-1):
+        p0=pts[max(i-1,0)];p1=pts[i];p2=pts[i+1];p3=pts[min(i+2,len(pts)-1)]
+        c1=(p1[0]+(p2[0]-p0[0])/6,p1[1]+(p2[1]-p0[1])/6);c2=(p2[0]-(p3[0]-p1[0])/6,p2[1]-(p3[1]-p1[1])/6)
+        d+=f" C{c1[0]:.0f},{c1[1]:.0f} {c2[0]:.0f},{c2[1]:.0f} {p2[0]},{p2[1]}"
+    return d
+# 主街：入口（左下）→ 往右 → 右側彎上去 → 往左 → 左側彎上去 → 往右到街尾
+ROAD=smooth([(0,735),(260,738),(480,705),(720,735),(900,655),(905,540),(720,505),(420,520),(190,480),(105,385),(230,310),(470,310),(700,290),(880,230),(960,210)])
+RIVER=smooth([(760,140),(770,210),(770,280),(800,350),(870,385),(930,395)])
+TREES=[(40,250),(240,215),(420,420),(660,400),(980,300),(990,480),(30,560),(260,560),(520,600),(980,720),(700,600),(470,215)]
+
+
 
 MAP = f'''<svg viewBox="0 0 1000 790" xmlns="http://www.w3.org/2000/svg" style="width:100%;height:100%;display:block" font-family="芫荽, Noto Color Emoji">
 <defs>
@@ -63,20 +76,18 @@ MAP = f'''<svg viewBox="0 0 1000 790" xmlns="http://www.w3.org/2000/svg" style="
 <ellipse cx="170" cy="70" rx="60" ry="18" fill="#fff" stroke="#3b2f2f" stroke-width="2"/><ellipse cx="820" cy="40" rx="70" ry="18" fill="#fff" stroke="#3b2f2f" stroke-width="2"/>
 <!-- 草地 -->
 <path d="M0,170 Q500,120 1000,170 L1000,790 L0,790Z" fill="#bbf7d0"/>
-<!-- 小河＋橋 -->
-<path d="M540,150 C565,300 515,420 545,560 C570,680 530,740 540,790" fill="none" stroke="#38bdf8" stroke-width="46" stroke-linecap="round"/>
-<path d="M540,150 C565,300 515,420 545,560 C570,680 530,740 540,790" fill="none" stroke="#7dd3fc" stroke-width="18" stroke-dasharray="20 30"/>
-<!-- 小路：每排店門口一條街，左邊一條直路把三排接起來，入口在左下 -->
-<g fill="none" stroke-linecap="round" stroke-linejoin="round">
-<path id="rd" d="M0,735 L980,735 M60,735 L60,315 L330,315 M60,525 L980,525" stroke="#fde68a" stroke-width="30"/>
-<path d="M0,735 L980,735 M60,735 L60,315 L330,315 M60,525 L980,525" stroke="#f59e0b" stroke-width="3" stroke-dasharray="2 14"/>
-</g>
-<rect x="506" y="718" width="72" height="34" rx="6" fill="#d97706" stroke="#3b2f2f" stroke-width="3"/>
-<rect x="506" y="508" width="72" height="34" rx="6" fill="#d97706" stroke="#3b2f2f" stroke-width="3"/>
+<!-- 小河（從山上流下來，流進右邊的小池塘）＋一座橋 -->
+<ellipse cx="935" cy="400" rx="70" ry="40" fill="#38bdf8" stroke="#3b2f2f" stroke-width="3"/>
+<path d="{RIVER}" fill="none" stroke="#38bdf8" stroke-width="40" stroke-linecap="round"/>
+<path d="{RIVER}" fill="none" stroke="#7dd3fc" stroke-width="14" stroke-dasharray="18 28"/>
+<!-- 彎彎的主街 -->
+<path d="{ROAD}" fill="none" stroke="#fde68a" stroke-width="30" stroke-linecap="round" stroke-linejoin="round"/>
+<path d="{ROAD}" fill="none" stroke="#f59e0b" stroke-width="3" stroke-dasharray="2 14" stroke-linecap="round"/>
+<g transform="translate(771,262) rotate(-18)"><rect x="-38" y="-18" width="76" height="36" rx="6" fill="#d97706" stroke="#3b2f2f" stroke-width="3"/><line x1="-38" y1="-6" x2="38" y2="-6" stroke="#3b2f2f" stroke-width="2"/><line x1="-38" y1="6" x2="38" y2="6" stroke="#3b2f2f" stroke-width="2"/></g>
 <!-- 入口牌 -->
-<g transform="translate(30,660)"><rect x="-4" y="0" width="8" height="60" fill="#a16207"/><rect x="-36" y="-34" width="72" height="38" rx="8" fill="#fff" stroke="#3b2f2f" stroke-width="2.5"/><text x="0" y="-8" text-anchor="middle" font-size="20" font-weight="800">入口</text></g>
+<g transform="translate(40,680)"><rect x="-4" y="0" width="8" height="60" fill="#a16207"/><rect x="-36" y="-34" width="72" height="38" rx="8" fill="#fff" stroke="#3b2f2f" stroke-width="2.5"/><text x="0" y="-8" text-anchor="middle" font-size="20" font-weight="800">入口</text></g>
 {''.join(tree(x,y) for x,y in TREES)}
-<g transform="translate(850,300)" opacity=".7"><rect x="-80" y="-60" width="160" height="70" rx="14" fill="#f5f5f4" stroke="#a8a29e" stroke-width="3" stroke-dasharray="10 8"/><text y="-16" text-anchor="middle" font-size="26">🚧</text><text y="40" text-anchor="middle" font-size="20" font-weight="800" fill="#78716c">敬請期待</text></g>
+<g transform="translate(900,190)" opacity=".75"><rect x="-80" y="-60" width="160" height="70" rx="14" fill="#f5f5f4" stroke="#a8a29e" stroke-width="3" stroke-dasharray="10 8"/><text y="-16" text-anchor="middle" font-size="26">🚧</text><text y="40" text-anchor="middle" font-size="20" font-weight="800" fill="#78716c">敬請期待</text></g>
 {''.join(shop_svg(*s) for s in sorted(SHOPS, key=lambda s: s[6]))}
 </svg>'''
 
